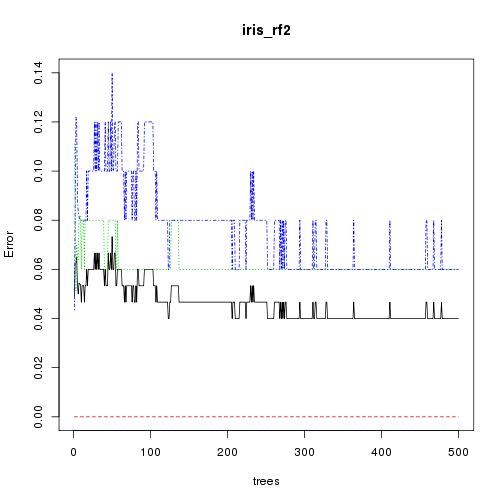
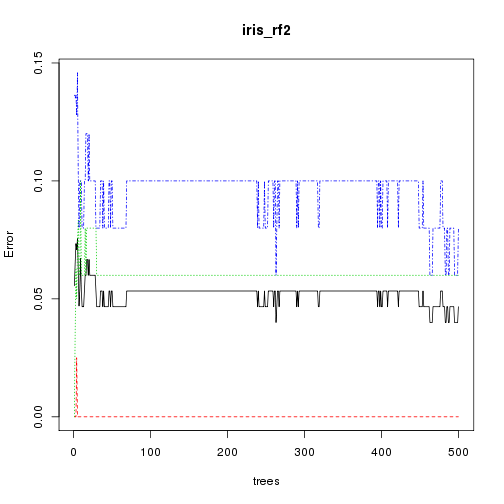
automatic build of site

diff --git a/_posts/2015-01-14-03-Clean.md b/_posts/2015-01-14-03-Clean.md
@@ -1,5 +1,5 @@
 ---
-title: "04 - Clean: dplyr"
+title: "03 - Clean"
 author: Jeffrey W. Hollister
 layout: post_page
 ---
@@ -464,12 +464,12 @@ rbind_df
 
 {% highlight text %}
 ##    a b     c          d
-## 1  1 a  TRUE  0.5912148
-## 2  2 b  TRUE -2.5051335
-## 3  3 c FALSE -0.4931855
-## 4 10 x FALSE -0.7695049
-## 5 11 y FALSE -1.2422404
-## 6 12 z FALSE -0.3187320
+## 1  1 a  TRUE -0.5066208
+## 2  2 b  TRUE -0.3199235
+## 3  3 c FALSE  0.3853624
+## 4 10 x FALSE -0.9824230
+## 5 11 y FALSE -0.2939066
+## 6 12 z FALSE  0.1876168
 {% endhighlight %}
 
 Now something to think about.  Could you add a vector as a new row?  Why/Why not? When/When not?
@@ -489,10 +489,10 @@ rbind_df_merge_match
 
 {% highlight text %}
 ##    a b     c          d          x names
-## 1  1 a  TRUE  0.5912148  1.1866692   bob
-## 2  3 c FALSE -0.4931855 -1.4932476   joe
-## 3 10 x FALSE -0.7695049  0.1147681   sue
-## 4 11 y FALSE -1.2422404  0.1271667  <NA>
+## 1  1 a  TRUE -0.5066208 -1.0350696   bob
+## 2  3 c FALSE  0.3853624 -0.6928018   joe
+## 3 10 x FALSE -0.9824230 -0.2538833   sue
+## 4 11 y FALSE -0.2939066 -0.6823862  <NA>
 {% endhighlight %}
 
 
@@ -507,12 +507,12 @@ rbind_df_merge_allx
 
 {% highlight text %}
 ##    a b     c          d          x names
-## 1  1 a  TRUE  0.5912148  1.1866692   bob
-## 2  2 b  TRUE -2.5051335         NA  <NA>
-## 3  3 c FALSE -0.4931855 -1.4932476   joe
-## 4 10 x FALSE -0.7695049  0.1147681   sue
-## 5 11 y FALSE -1.2422404  0.1271667  <NA>
-## 6 12 z FALSE -0.3187320         NA  <NA>
+## 1  1 a  TRUE -0.5066208 -1.0350696   bob
+## 2  2 b  TRUE -0.3199235         NA  <NA>
+## 3  3 c FALSE  0.3853624 -0.6928018   joe
+## 4 10 x FALSE -0.9824230 -0.2538833   sue
+## 5 11 y FALSE -0.2939066 -0.6823862  <NA>
+## 6 12 z FALSE  0.1876168         NA  <NA>
 {% endhighlight %}
 
 
@@ -678,12 +678,12 @@ head(temp_df)
 
 {% highlight text %}
 ##   id    week1    week2    week3    week4
-## 1  1 21.45799 22.27894 22.14192 22.46081
-## 2  2 22.02197 21.67995 24.33491 20.87553
-## 3  3 24.79274 19.96590 24.06048 19.39654
-## 4  4 22.29694 23.51067 18.82133 18.90054
-## 5  5 21.01548 22.28815 24.47904 19.83773
-## 6  6 21.20807 19.70492 23.50588 20.81501
+## 1  1 20.30102 23.30226 22.25199 21.81256
+## 2  2 23.33742 19.21646 18.81456 20.30109
+## 3  3 24.08690 22.82383 23.21263 19.72153
+## 4  4 20.65976 19.72240 25.98670 20.46928
+## 5  5 20.21066 21.98827 21.87823 22.66650
+## 6  6 23.39876 23.39021 23.07152 18.08914
 {% endhighlight %}
 
 
@@ -702,12 +702,12 @@ head(temp_df2)
 ## Source: local data frame [6 x 6]
 ## 
 ##   id    week1    week2    week3    week4 site_mean
-## 1  1 21.45799 22.27894 22.14192 22.46081  22.08492
-## 2  2 22.02197 21.67995 24.33491 20.87553  22.22809
-## 3  3 24.79274 19.96590 24.06048 19.39654  22.05392
-## 4  4 22.29694 23.51067 18.82133 18.90054  20.88237
-## 5  5 21.01548 22.28815 24.47904 19.83773  21.90510
-## 6  6 21.20807 19.70492 23.50588 20.81501  21.30847
+## 1  1 20.30102 23.30226 22.25199 21.81256  21.91696
+## 2  2 23.33742 19.21646 18.81456 20.30109  20.41738
+## 3  3 24.08690 22.82383 23.21263 19.72153  22.46122
+## 4  4 20.65976 19.72240 25.98670 20.46928  21.70953
+## 5  5 20.21066 21.98827 21.87823 22.66650  21.68592
+## 6  6 23.39876 23.39021 23.07152 18.08914  21.98741
 {% endhighlight %}
 
 We now have quite a few tools that we can use to clean and manipulate data in R.  We have barely touched what both base R and `dplyr` are capable of accomplishing, but hopefully you now have some basics to build on.  I personally think the database connection in `dplyr` are going to prove very useful.

diff --git a/rmd_posts/2015-01-14-03-Clean.md b/rmd_posts/2015-01-14-03-Clean.md
@@ -1,5 +1,5 @@
 ---
-title: "04 - Clean: dplyr"
+title: "03 - Clean"
 author: Jeffrey W. Hollister
 layout: post_page
 ---
@@ -464,12 +464,12 @@ rbind_df
 
 {% highlight text %}
 ##    a b     c          d
-## 1  1 a  TRUE  0.5912148
-## 2  2 b  TRUE -2.5051335
-## 3  3 c FALSE -0.4931855
-## 4 10 x FALSE -0.7695049
-## 5 11 y FALSE -1.2422404
-## 6 12 z FALSE -0.3187320
+## 1  1 a  TRUE -0.5066208
+## 2  2 b  TRUE -0.3199235
+## 3  3 c FALSE  0.3853624
+## 4 10 x FALSE -0.9824230
+## 5 11 y FALSE -0.2939066
+## 6 12 z FALSE  0.1876168
 {% endhighlight %}
 
 Now something to think about.  Could you add a vector as a new row?  Why/Why not? When/When not?
@@ -489,10 +489,10 @@ rbind_df_merge_match
 
 {% highlight text %}
 ##    a b     c          d          x names
-## 1  1 a  TRUE  0.5912148  1.1866692   bob
-## 2  3 c FALSE -0.4931855 -1.4932476   joe
-## 3 10 x FALSE -0.7695049  0.1147681   sue
-## 4 11 y FALSE -1.2422404  0.1271667  <NA>
+## 1  1 a  TRUE -0.5066208 -1.0350696   bob
+## 2  3 c FALSE  0.3853624 -0.6928018   joe
+## 3 10 x FALSE -0.9824230 -0.2538833   sue
+## 4 11 y FALSE -0.2939066 -0.6823862  <NA>
 {% endhighlight %}
 
 
@@ -507,12 +507,12 @@ rbind_df_merge_allx
 
 {% highlight text %}
 ##    a b     c          d          x names
-## 1  1 a  TRUE  0.5912148  1.1866692   bob
-## 2  2 b  TRUE -2.5051335         NA  <NA>
-## 3  3 c FALSE -0.4931855 -1.4932476   joe
-## 4 10 x FALSE -0.7695049  0.1147681   sue
-## 5 11 y FALSE -1.2422404  0.1271667  <NA>
-## 6 12 z FALSE -0.3187320         NA  <NA>
+## 1  1 a  TRUE -0.5066208 -1.0350696   bob
+## 2  2 b  TRUE -0.3199235         NA  <NA>
+## 3  3 c FALSE  0.3853624 -0.6928018   joe
+## 4 10 x FALSE -0.9824230 -0.2538833   sue
+## 5 11 y FALSE -0.2939066 -0.6823862  <NA>
+## 6 12 z FALSE  0.1876168         NA  <NA>
 {% endhighlight %}
 
 
@@ -678,12 +678,12 @@ head(temp_df)
 
 {% highlight text %}
 ##   id    week1    week2    week3    week4
-## 1  1 21.45799 22.27894 22.14192 22.46081
-## 2  2 22.02197 21.67995 24.33491 20.87553
-## 3  3 24.79274 19.96590 24.06048 19.39654
-## 4  4 22.29694 23.51067 18.82133 18.90054
-## 5  5 21.01548 22.28815 24.47904 19.83773
-## 6  6 21.20807 19.70492 23.50588 20.81501
+## 1  1 20.30102 23.30226 22.25199 21.81256
+## 2  2 23.33742 19.21646 18.81456 20.30109
+## 3  3 24.08690 22.82383 23.21263 19.72153
+## 4  4 20.65976 19.72240 25.98670 20.46928
+## 5  5 20.21066 21.98827 21.87823 22.66650
+## 6  6 23.39876 23.39021 23.07152 18.08914
 {% endhighlight %}
 
 
@@ -702,12 +702,12 @@ head(temp_df2)
 ## Source: local data frame [6 x 6]
 ## 
 ##   id    week1    week2    week3    week4 site_mean
-## 1  1 21.45799 22.27894 22.14192 22.46081  22.08492
-## 2  2 22.02197 21.67995 24.33491 20.87553  22.22809
-## 3  3 24.79274 19.96590 24.06048 19.39654  22.05392
-## 4  4 22.29694 23.51067 18.82133 18.90054  20.88237
-## 5  5 21.01548 22.28815 24.47904 19.83773  21.90510
-## 6  6 21.20807 19.70492 23.50588 20.81501  21.30847
+## 1  1 20.30102 23.30226 22.25199 21.81256  21.91696
+## 2  2 23.33742 19.21646 18.81456 20.30109  20.41738
+## 3  3 24.08690 22.82383 23.21263 19.72153  22.46122
+## 4  4 20.65976 19.72240 25.98670 20.46928  21.70953
+## 5  5 20.21066 21.98827 21.87823 22.66650  21.68592
+## 6  6 23.39876 23.39021 23.07152 18.08914  21.98741
 {% endhighlight %}
 
 We now have quite a few tools that we can use to clean and manipulate data in R.  We have barely touched what both base R and `dplyr` are capable of accomplishing, but hopefully you now have some basics to build on.  I personally think the database connection in `dplyr` are going to prove very useful.

diff --git a/_posts/2015-01-15-06-Analyze.md b/_posts/2015-01-15-06-Analyze.md
@@ -1,5 +1,5 @@
 ---
-title: "07 - Analyze: Packages"
+title: "06 - Analyze: Packages"
 author: Jeffrey W. Hollister
 layout: post_page
 ---
@@ -114,12 +114,12 @@ iris_rf2
 ##                      Number of trees: 500
 ## No. of variables tried at each split: 2
 ## 
-##         OOB estimate of  error rate: 4%
+##         OOB estimate of  error rate: 4.67%
 ## Confusion matrix:
 ##            setosa versicolor virginica class.error
 ## setosa         50          0         0        0.00
 ## versicolor      0         47         3        0.06
-## virginica       0          3        47        0.06
+## virginica       0          4        46        0.08
 {% endhighlight %}
 
 The only thing we haven't seen before here is the ".".  That indicates all the other variables in the data frame.  It is just a shortcut and you could explicitly name the variables to use.

diff --git a/rmd_posts/2015-01-15-06-Analyze.md b/rmd_posts/2015-01-15-06-Analyze.md
@@ -1,5 +1,5 @@
 ---
-title: "07 - Analyze: Packages"
+title: "06 - Analyze: Packages"
 author: Jeffrey W. Hollister
 layout: post_page
 ---
@@ -114,12 +114,12 @@ iris_rf2
 ##                      Number of trees: 500
 ## No. of variables tried at each split: 2
 ## 
-##         OOB estimate of  error rate: 4%
+##         OOB estimate of  error rate: 4.67%
 ## Confusion matrix:
 ##            setosa versicolor virginica class.error
 ## setosa         50          0         0        0.00
 ## versicolor      0         47         3        0.06
-## virginica       0          3        47        0.06
+## virginica       0          4        46        0.08
 {% endhighlight %}
 
 The only thing we haven't seen before here is the ".".  That indicates all the other variables in the data frame.  It is just a shortcut and you could explicitly name the variables to use.

diff --git a/_posts/2015-01-15-05-Analyze.md b/_posts/2015-01-15-05-Analyze.md
@@ -1,5 +1,5 @@
 ---
-title: "06 - Analyze: Base"
+title: "05 - Analyze: Base"
 author: Jeffrey W. Hollister
 layout: post_page
 ---
@@ -36,13 +36,13 @@ xy_tt
 ## 	Welch Two Sample t-test
 ## 
 ## data:  x and y
-## t = -6.6051, df = 37.035, p-value = 9.532e-08
+## t = -8.3385, df = 41.453, p-value = 2.097e-10
 ## alternative hypothesis: true difference in means is not equal to 0
 ## 95 percent confidence interval:
-##  -9.906486 -5.255503
+##  -9.061988 -5.529238
 ## sample estimates:
 ## mean of x mean of y 
-##  2.784282 10.365276
+##  2.745578 10.041191
 {% endhighlight %}
 
 `t.test()` can also take a formula specification as input. I mentioned this briefly in the previous lesson.  At it's simplest a formula takes the form of `y ~ x`.  The tilde is used in place of the equals sign.  For a t-test that is all we need to know.  

diff --git a/rmd_posts/2015-01-15-05-Analyze.md b/rmd_posts/2015-01-15-05-Analyze.md
@@ -1,5 +1,5 @@
 ---
-title: "06 - Analyze: Base"
+title: "05 - Analyze: Base"
 author: Jeffrey W. Hollister
 layout: post_page
 ---
@@ -36,13 +36,13 @@ xy_tt
 ## 	Welch Two Sample t-test
 ## 
 ## data:  x and y
-## t = -6.6051, df = 37.035, p-value = 9.532e-08
+## t = -8.3385, df = 41.453, p-value = 2.097e-10
 ## alternative hypothesis: true difference in means is not equal to 0
 ## 95 percent confidence interval:
-##  -9.906486 -5.255503
+##  -9.061988 -5.529238
 ## sample estimates:
 ## mean of x mean of y 
-##  2.784282 10.365276
+##  2.745578 10.041191
 {% endhighlight %}
 
 `t.test()` can also take a formula specification as input. I mentioned this briefly in the previous lesson.  At it's simplest a formula takes the form of `y ~ x`.  The tilde is used in place of the equals sign.  For a t-test that is all we need to know.  

diff --git a/_posts/2015-01-15-08-Repeat-Reproduce.md b/_posts/2015-01-15-08-Repeat-Reproduce.md
@@ -1,5 +1,5 @@
 ---
-title: "09 - Repeat and Reproduce"
+title: "08 - Repeat and Reproduce"
 author: Jeffrey W. Hollister
 layout: post_page
 ---
@@ -339,7 +339,7 @@ system.time(sum_vec(large_vec))
 
 {% highlight text %}
 ##    user  system elapsed 
-##   1.603   0.000   1.604
+##   1.636   0.000   1.637
 {% endhighlight %}
 
 Here we can see the difference.  In this case the `sum()` is several hundred times faster! 

diff --git a/rmd_posts/2015-01-15-08-Repeat-Reproduce.md b/rmd_posts/2015-01-15-08-Repeat-Reproduce.md
@@ -1,5 +1,5 @@
 ---
-title: "09 - Repeat and Reproduce"
+title: "08 - Repeat and Reproduce"
 author: Jeffrey W. Hollister
 layout: post_page
 ---
@@ -339,7 +339,7 @@ system.time(sum_vec(large_vec))
 
 {% highlight text %}
 ##    user  system elapsed 
-##   1.603   0.000   1.604
+##   1.636   0.000   1.637
 {% endhighlight %}
 
 Here we can see the difference.  In this case the `sum()` is several hundred times faster! 

diff --git a/_posts/2015-01-15-07-Visualize.md b/_posts/2015-01-15-07-Visualize.md
@@ -1,5 +1,5 @@
 ---
-title: "08 - Visualize"
+title: "07 - Visualize"
 author: Jeffrey W. Hollister
 layout: post_page
 ---

diff --git a/rmd_posts/2015-01-15-07-Visualize.md b/rmd_posts/2015-01-15-07-Visualize.md
@@ -1,5 +1,5 @@
 ---
-title: "08 - Visualize"
+title: "07 - Visualize"
 author: Jeffrey W. Hollister
 layout: post_page
 ---

diff --git a/_posts/2015-01-14-04-Explore.md b/_posts/2015-01-14-04-Explore.md
@@ -1,5 +1,5 @@
 ---
-title: "05 - Explore"
+title: "04 - Explore"
 author: Jeffrey W. Hollister
 layout: post_page
 ---

diff --git a/rmd_posts/2015-01-14-04-Explore.md b/rmd_posts/2015-01-14-04-Explore.md
@@ -1,5 +1,5 @@
 ---
-title: "05 - Explore"
+title: "04 - Explore"
 author: Jeffrey W. Hollister
 layout: post_page
 ---
